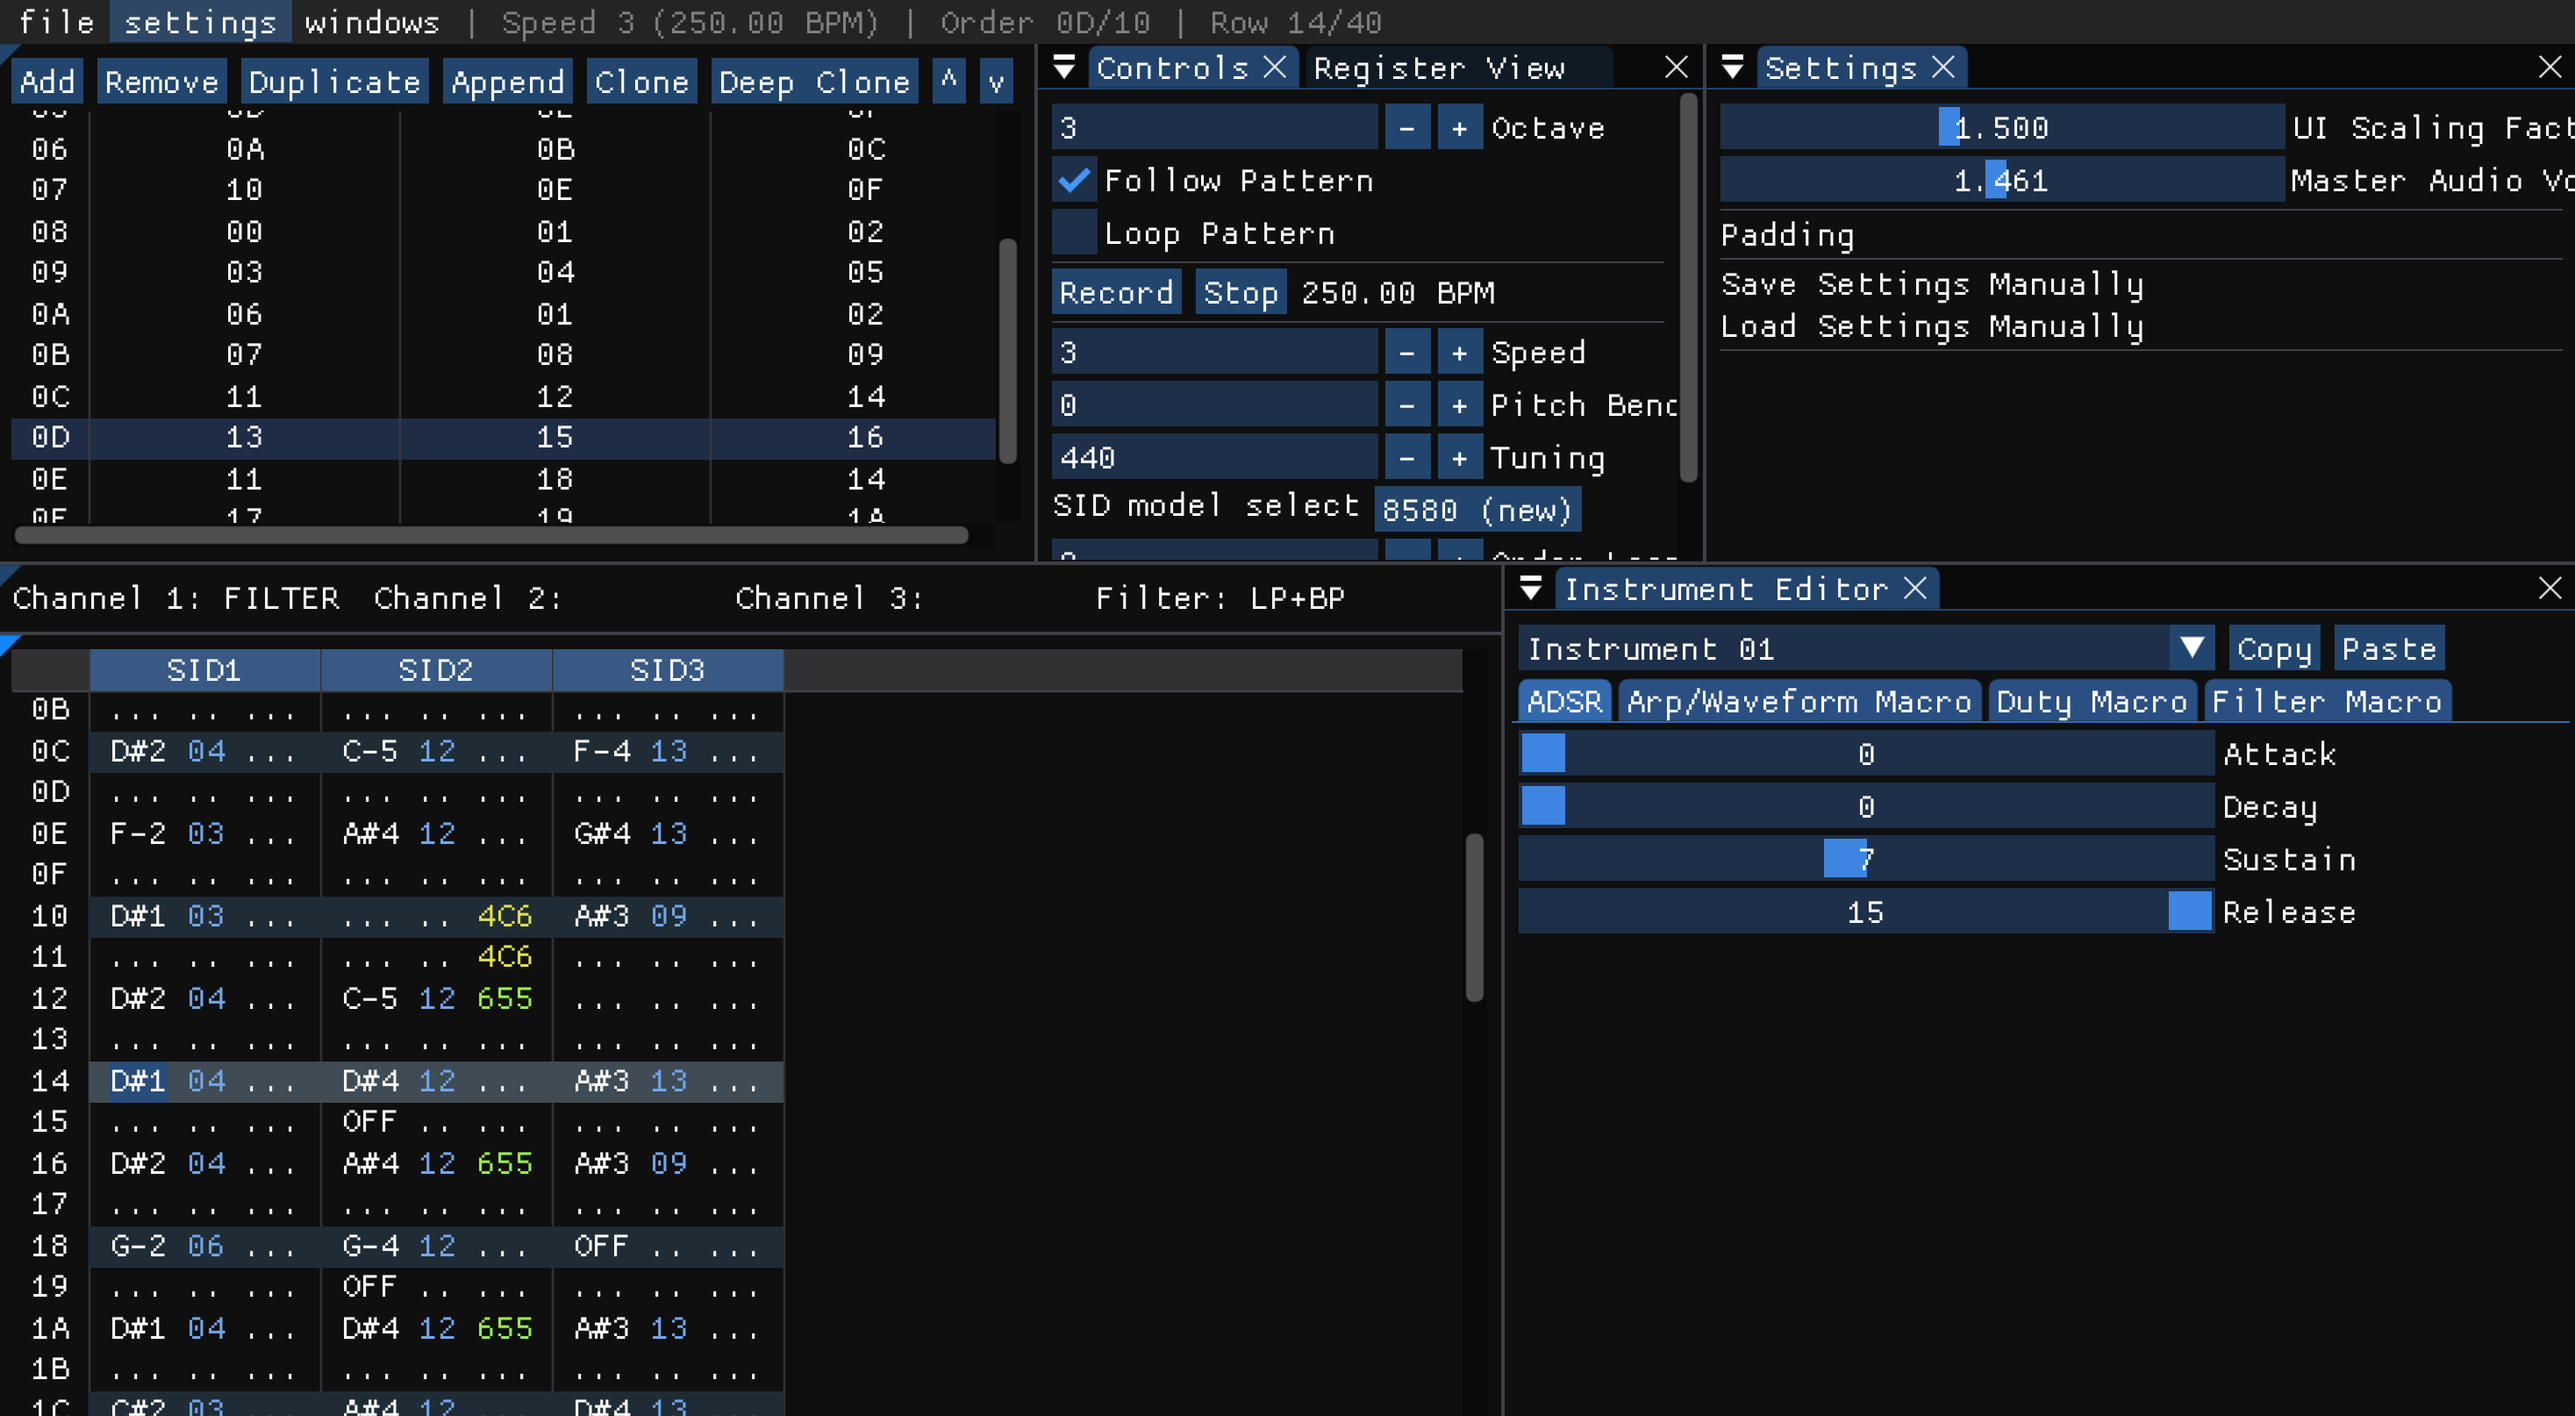
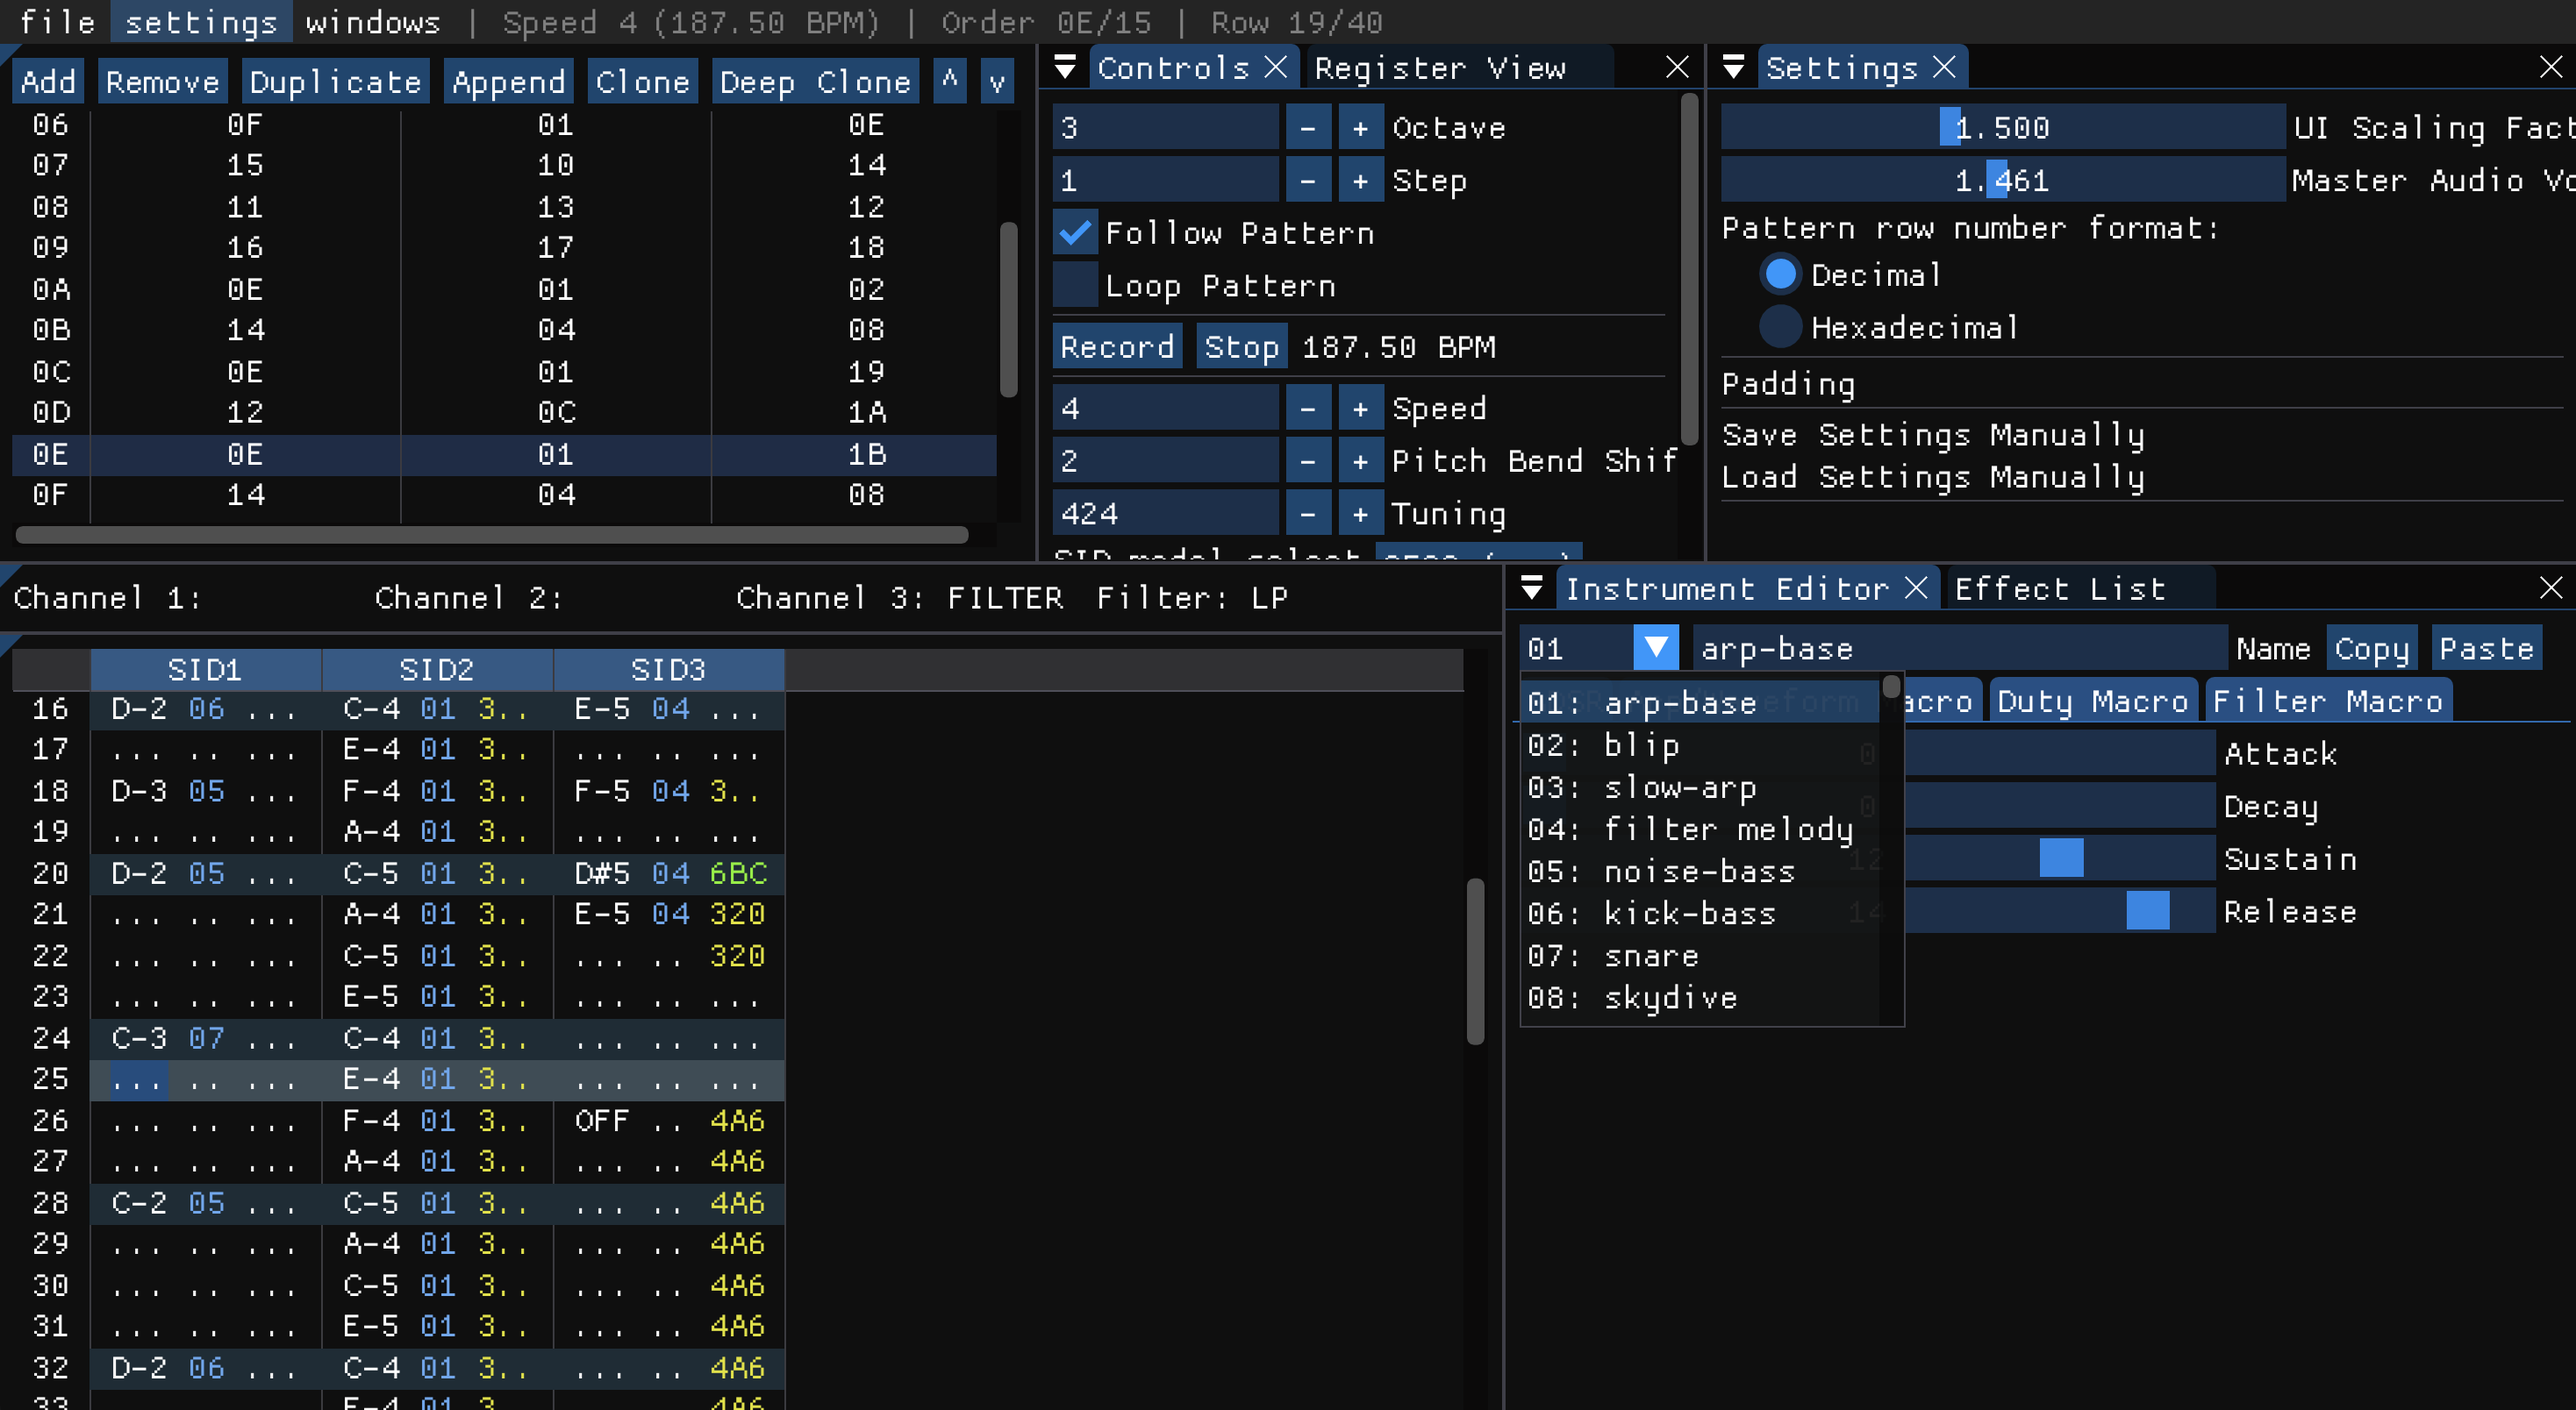
added an in-program effect list and updated the submodules

diff --git a/pattern.cpp b/pattern.cpp
@@ -580,6 +580,32 @@ const ImU32 effect_cols[16] = {
     IM_COL32(227, 50, 241, 255), // Fxx: speed-related color (magenta)
 };
 
+struct effect_info {
+    bool implemented; // set to true if the effect is implemented
+    bool nibble_arg; // set to true if the effect uses two seperate nibbles for arguments
+    std::string description; // a basic description of said effect
+};
+
+// a lookup array for effect info
+const effect_info all_effect_info[16] = {
+    {false, false, ""}, // 0xx
+    {true,  false, "Pitch slide up"}, // 1xx
+    {true,  false, "Pitch slide down"}, // 2xx
+    {true,  false, "Portamento"}, // 3xx
+    {true,  true,  "Vibrato (x: speed, y: depth)"}, // 4xy
+    {true,  true,  "Set attack/decay to XY (x: attack, y: decay)"}, // 5xy
+    {true,  true,  "Set sustain/release to XY (x: sustain, y: release)"}, // 6xy
+    {false, false, ""}, // 7xx
+    {false, false, ""}, // 8xx
+    {true,  false, "Set filter cutoff"}, // 9xx
+    {false, false, ""}, // Axx
+    {false, false, ""}, // Bxx
+    {true,  false, "Set channel transpose"}, // Cxx
+    {true,  false, "Jump to next pattern"}, // Dxx
+    {true,  true,  "Set two alternating speeds (x: speed 1, y: speed 2)"}, // Exy
+    {true,  false, "Set speed"}, // Fxx
+};
+
 void render_pat(song *song, cursor *cur_cursor, std::vector<undo_chunk> *undo_chunks, bool *enable) {
     // init window and table
     ImGuiIO& io = ImGui::GetIO();
@@ -589,7 +615,7 @@ void render_pat(song *song, cursor *cur_cursor, std::vector<undo_chunk> *undo_ch
     // only render the table if it's on screen...
     bool render_table = ImGui::BeginTable("patview",3+2,ImGuiTableFlags_BordersInnerV|ImGuiTableFlags_ScrollX|ImGuiTableFlags_ScrollY|ImGuiTableFlags_NoPadInnerX); 
     ImVec2 char_size_xy = ImGui::CalcTextSize("A");
-    float char_size = char_size_xy.x; // from foiniss
+    float char_size = char_size_xy.x; // from furnace
     char_size_xy.y += io.FontGlobalScale+2;
     const float ch_row_len = 12.0; // C-4 69 420
     ImDrawList* draw_list = ImGui::GetWindowDrawList();
@@ -931,6 +957,55 @@ void render_pat(song *song, cursor *cur_cursor, std::vector<undo_chunk> *undo_ch
     if (cur_cursor->do_follow && cur_cursor->playing) {
         cur_cursor->row = cur_cursor->play_row;
         ImGui::SetScrollY(cur_cursor->row*char_size_xy.y); 
+    }
+
+    ImGui::EndTable();
+    ImGui::PopStyleVar();
+    ImGui::End();
+}
+
+void render_eff_list(bool *enable) {
+    // init window and table
+    ImGuiIO& io = ImGui::GetIO();
+    ImGui::Begin("Effect List", enable);
+
+    ImGui::PushStyleVar(ImGuiStyleVar_CellPadding,ImVec2(0.0f,0.0f));
+    // only render the table if it's on screen...
+    bool render_table = ImGui::BeginTable("effect_table",2,ImGuiTableFlags_ScrollY); 
+    ImVec2 char_size_xy = ImGui::CalcTextSize("A");
+    float char_size = char_size_xy.x; // from furnace
+    char_size_xy.y += io.FontGlobalScale+2;
+    ImDrawList* draw_list = ImGui::GetWindowDrawList();
+
+    if (!render_table) {
+        // this is so the program doesn't crash when the effect list window is a hidden tab
+        ImGui::PopStyleVar();
+        ImGui::End();
+        return;
+    }
+
+    ImGui::TableSetupScrollFreeze(0, 1);
+    ImGui::TableSetupColumn("eff_name",ImGuiTableColumnFlags_WidthFixed,5.0*char_size);
+    ImGui::TableSetupColumn("eff_desc",ImGuiTableColumnFlags_WidthStretch);
+
+    ImGui::TableNextRow(ImGuiTableRowFlags_Headers, char_size_xy.y);
+    ImGui::TableNextColumn();
+    ImGui::Text("Name");
+    ImGui::TableNextColumn();
+    ImGui::Text("Description");
+    ImGui::TableNextRow(ImGuiTableRowFlags_None, char_size_xy.y/8.0f);
+    ImGui::TableNextRow(ImGuiTableRowFlags_None, char_size_xy.y);
+
+    for (int eff = 0; eff < 16; eff++) {
+        if (all_effect_info[eff].implemented) {
+            ImGui::TableNextColumn();
+            ImGui::PushStyleColor(ImGuiCol_Text, effect_cols[eff]);
+            ImGui::TextAligned(0.25f, 5.0*char_size, "%Xxx", eff);
+            ImGui::PopStyleColor();
+            ImGui::TableNextColumn();
+            ImGui::TextWrapped("%s", all_effect_info[eff].description.c_str()); 
+            ImGui::TableNextRow(ImGuiTableRowFlags_None, char_size_xy.y);
+        }
     }
 
     ImGui::EndTable();

diff --git a/defines_ui.h b/defines_ui.h
@@ -20,13 +20,15 @@ along with this program; if not, see
 // Default layout for imgui.ini
 const char *default_layout="[Window][DockSpace Demo]\n\
 Pos=0,0\n\
-Size=1470,816\n\
+Size=1470,815\n\
 Collapsed=0\n\
+LastUsed=20260927\n\
 \n\
 [Window][Debug##Default]\n\
 Pos=60,60\n\
 Size=400,400\n\
 Collapsed=0\n\
+LastUsed=20260927\n\
 \n\
 [Window][Dear ImGui Metrics/Debugger]\n\
 Pos=1038,323\n\
@@ -39,56 +41,64 @@ Pos=974,26\n\
 Size=496,295\n\
 Collapsed=0\n\
 DockId=0x0000000C,0\n\
+LastUsed=20260927\n\
 \n\
 [Window][Pattern]\n\
 Pos=0,363\n\
-Size=857,453\n\
+Size=857,452\n\
 Collapsed=0\n\
 DockId=0x0000000E,0\n\
+LastUsed=20260927\n\
 \n\
 [Window][Controls]\n\
 Pos=593,26\n\
 Size=379,295\n\
 Collapsed=0\n\
 DockId=0x0000000B,0\n\
+LastUsed=20260927\n\
 \n\
 [Window][Orders]\n\
 Pos=0,26\n\
 Size=591,295\n\
 Collapsed=0\n\
 DockId=0x00000005,0\n\
+LastUsed=20260927\n\
 \n\
 [Window][Instrument Editor]\n\
 Pos=859,323\n\
-Size=611,493\n\
+Size=611,492\n\
 Collapsed=0\n\
 DockId=0x00000008,0\n\
+LastUsed=20260927\n\
 \n\
 [Window][Register View]\n\
 Pos=593,26\n\
 Size=379,295\n\
 Collapsed=0\n\
 DockId=0x0000000B,1\n\
-\n\
-[Window][Filter Info]\n\
-Pos=0,323\n\
-Size=857,44\n\
-Collapsed=0\n\
-DockId=0x00000009,0\n\
+LastUsed=20260927\n\
 \n\
 [Window][Filter & Channel Info]\n\
 Pos=0,323\n\
 Size=857,38\n\
 Collapsed=0\n\
 DockId=0x0000000D,0\n\
+LastUsed=20260927\n\
 \n\
 [Window][Warning]\n\
 Pos=490,360\n\
 Size=490,92\n\
 Collapsed=0\n\
 \n\
+[Window][Effect List]\n\
+Pos=859,323\n\
+Size=611,492\n\
+Collapsed=0\n\
+DockId=0x00000008,1\n\
+LastUsed=20260927\n\
+\n\
 [Docking][Data]\n\
-DockSpace           ID=0xC0DFADC4 Window=0xD0388BC8 Pos=0,26 Size=1470,790 Split=Y\n\
+DockSpace           ID=0xC0DFADC4 Window=0xD0388BC8 Pos=0,26 Size=1470,789 Split=Y\n\
   DockNode          ID=0x00000003 Parent=0xC0DFADC4 SizeRef=1470,295 Split=X Selected=0xA0C159B7\n\
     DockNode        ID=0x00000005 Parent=0x00000003 SizeRef=591,265 HiddenTabBar=1 Selected=0x575D137D\n\
     DockNode        ID=0x00000006 Parent=0x00000003 SizeRef=877,265 Split=X Selected=0x4746B4B8\n\

diff --git a/main.cpp b/main.cpp
@@ -53,7 +53,7 @@ namespace fs = std::filesystem;
 void save_settings();
 void load_settings();
 
-struct window_bool visible_windows;
+window_bool visible_windows;
 
 static bool opt_padding = false; // Is there padding (a blank space) between the window edge and the Dockspace?
 
@@ -268,6 +268,7 @@ void ShowExampleAppDockSpace(bool* p_open) {
             ImGui::MenuItem("Controls", NULL, (bool *)&visible_windows.controls);
             ImGui::MenuItem("Orders", NULL, (bool *)&visible_windows.orders);
             ImGui::MenuItem("Instrument Editor", NULL, (bool *)&visible_windows.instr);
+            ImGui::MenuItem("Effect List", NULL, (bool *)&visible_windows.effects_list);
             ImGui::MenuItem("Register View", NULL, (bool *)&visible_windows.reg_view);
             ImGui::MenuItem("Filter & Channel Info", NULL, (bool *)&visible_windows.filter_view);
             ImGui::EndMenu();
@@ -341,6 +342,7 @@ int main(int argc, char *argv[]) {
     visible_windows.reg_view = true;
     visible_windows.filter_view = true;
     visible_windows.decimal_rows = true;
+    visible_windows.effects_list = true;
 
     // Setup SDL
     if (SDL_Init(SDL_INIT_VIDEO | SDL_INIT_TIMER | SDL_INIT_GAMECONTROLLER) != 0)
@@ -411,7 +413,7 @@ int main(int argc, char *argv[]) {
     IMGUI_CHECKVERSION();
     ImGui::CreateContext();
     ImGuiIO& io = ImGui::GetIO(); (void)io;
-    io.Fonts->AddFontDefault();
+    io.Fonts->AddFontDefaultBitmap();
     //io.Fonts->AddFontFromFileTTF("res/fontawesome.otf", 12.0f);
     //io.Fonts->AddFontFromFileTTF("IBMPlexMono-Regular.ttf", 25.0f); // FOINISS FONT OH MAI GAHHHH
 
@@ -602,6 +604,10 @@ int main(int argc, char *argv[]) {
 
         if (visible_windows.pattern) {
             render_pat(&c_song,&cur_cursor,&undo_total,(bool *)&visible_windows.pattern);
+        }
+
+        if (visible_windows.effects_list) {
+            render_eff_list((bool *)&visible_windows.effects_list);
         }
 
         if (visible_windows.controls) {

diff --git a/defines.h b/defines.h
@@ -151,6 +151,7 @@ struct song {
 extern void render_pat(song *song, cursor *cur_cursor, std::vector<undo_chunk> *undo_chunks, bool *enable);
 extern void render_orders(song *song, cursor *cur_cursor, bool *enable);
 extern void render_instr(song *song, cursor *cur_cursor, bool *enable);
+extern void render_eff_list(bool *enable);
 
 extern void set_channel_mute(int ch, bool muted);
 
@@ -166,6 +167,7 @@ struct window_bool {
     bool reg_view;
     bool filter_view;
     bool decimal_rows;
+    bool effects_list;
 };
 
-extern struct window_bool visible_windows;
+extern window_bool visible_windows;

diff --git a/module_format.md b/module_format.md
@@ -6,7 +6,7 @@ unless noted otherwise, each byte/word is treated as an **unsigned** value and i
 ## Header (128 bytes)
 - 8 byte magic string: `MAHTRACK` (\0 is null terminator or $00 in hex)
 - 1 byte: initial tick speed
-- 2 bytes: version (0-6 for now)
+- 2 bytes: version (0-8 for now)
 - IF VERSION >= 4:
     - 1 byte: pitch bend shift amount
 - ELSE:
